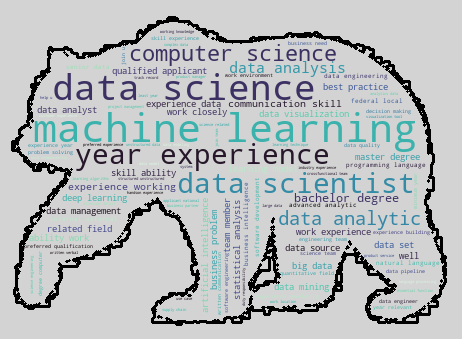
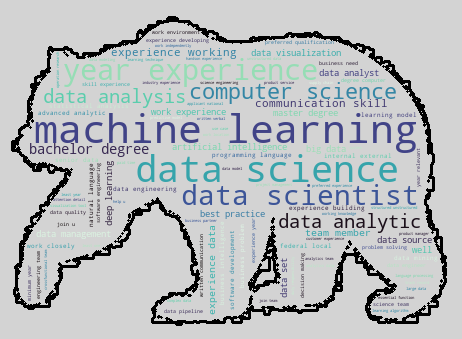
parsed indices 300-400 of the bigrams

Changed region(s): [[0.0606, 0.0885, 0.9697, 0.944]]

diff --git a/nlp_main.py b/nlp_main.py
@@ -483,7 +483,7 @@ def visualize_word_clouds(terms_for_nlp):
 # determine optimal sns chat size
 # think about grouping/stacking compaisons of n_grams based on job type/title
 # consider a function to identify and collapse key terms, like 'scientist' and 'science', 'analytics' and 'analysis', 'algorithm' and 'technique', 'oral' and 'verbal',
-#     'model' and 'modeling', 'strong', 'excellent'
+#     'model' and 'modeling', 'strong', 'excellent', 'writing' and 'written', 'discipline' and 'field'
 # consider a swarm plot for ....something, with job title or skill along the x_axis and some count/value along the y-axis,
   # maybe count of ds skills FOR THE UNICORN INDEX; yes, count the number of skills cited in each job listing, parsed by job title (which
   # has been collapsed and simplified)
@@ -521,6 +521,7 @@ ds_cred_terms = ['ability',
                  'data',
                  'degree',
                  'demonstrated', 
+                 'discipline',
                  'electrical',
                  'engineer',
                  'engineering',
@@ -546,12 +547,14 @@ ds_cred_terms = ['ability',
                  'software',
                  'statistic',
                  'statistics',
+                 'technical',
                  'track', 
                  'work',
                  'working',
                  'year'] # degrees, work and job titles
 
-ds_tech_skill_terms = ['airflow',
+ds_tech_skill_terms = ['ai',
+                       'airflow',
                        'advanced',
                        'algorithm',
                      'analysis',
@@ -559,6 +562,7 @@ ds_tech_skill_terms = ['airflow',
                      'analytics',
                      'analyze',
                      'applied',
+                     'applying',
                      'architecture',
                      'artificial',
                      'big',
@@ -580,14 +584,22 @@ ds_tech_skill_terms = ['airflow',
                      'django',
                      'ecosystem',
                      'edge',
+                     'emerging',
                      'engineer',
                      'engineering',
                      'enterprise',
                      'fastapi',
                      'flask',
+                     'framework',
+                     'generation',
+                     'google',
                      'implement',
+                     'implementation',
                      'information',
+                     'integration',
                      'intelligence',
+                     'java',
+                     'lake',
                      'language',
                      'large',
                      'learning',
@@ -599,6 +611,7 @@ ds_tech_skill_terms = ['airflow',
                      'modeling',
                      'natural',
                      'network',
+                     'next',
                      'neural', 
                      'open', 
                      'pipeline',
@@ -607,11 +620,15 @@ ds_tech_skill_terms = ['airflow',
                      'processing'
                      'programming', 
                      'python',
+                     'pytorch',
                      'relational', 
                      'r',
                      'scale',
                      'science',
+                     'scripting',
                      'series',
+                     'server',
+                     'service',
                      'set',
                      'software',
                      'source',
@@ -624,13 +641,16 @@ ds_tech_skill_terms = ['airflow',
                      'tableau',
                      'technique',
                      'technology',
+                     'tensorflow', 
                      'time', 
                      'tool',
                      'unstructured',
                      'visualization',
-                     'warehouse']
+                     'warehouse',
+                     'web']
 
-ds_soft_skill_terms = ['ability',
+ds_soft_skill_terms = ['ad', 
+                       'ability',
                        'attention', 
                        'audience',
                      'best',
@@ -639,18 +659,24 @@ ds_soft_skill_terms = ['ability',
                      'collaborate',
                      'communicate',
                      'communication',
+                     'continuous', 
                      'critical', 
                      'crossfunctional',
                      'decision', 
                      'detail',
+                     'environment',
                      'excellent',
+                     'experience',
+                     'fastpaced',
+                     'high', 
+                     'hoc', 
+                     'idea',
+                     'impact',
+                     'improvement',
                      'independently',
                      'intelligence',
                      'interpersonal',
-                     'lead',
-                     'leader',
-                     'leading',
-                     'leadership',
+                     'level',
                      'making',
                      'management',
                      'member',
@@ -669,17 +695,22 @@ ds_soft_skill_terms = ['ability',
                      'team',
                      'technical',
                      'thinking',
+                     'user', 
                      'verbal',
+                     'writing',
                      'written',
-                     'work']
+                     'work'
+                     'working']
 
 ds_prof_skill_terms = ['ability',
                        'actionable', 
                        'bi',
                        'business',
+                       'career', 
                        'case',
                        'client',
                        'complex', 
+                       'cross', 
                        'crossfunctional',
                        'customer', 
                        'data',
@@ -689,21 +720,33 @@ ds_prof_skill_terms = ['ability',
                        'demonstrated', 
                        'decision',
                        'development',
+                       'difference',
                        'drive',
                        'driven',
                        'experience',
                        'expert',
                        'expertise',
                        'generate',
+                       'functional',
                        'governance',
+                       'growth',
                        'help',
+                       'identify', 
+                       'impact',
                        'improvement',
                        'innovative',
                        'insight',
+                       'lead',
+                       'leader',
+                       'leading',
+                       'leadership',
+                       'make', 
                        'management',
+                       'managing',
                        'matter',
                        'member',
                        'need',
+                       'opportunity',
                        'partner',
                        'power', 
                        'problem',
@@ -723,12 +766,15 @@ ds_prof_skill_terms = ['ability',
                        'solve',
                        'solving',
                        'stakeholder',
+                       'strategy',
                        'subject',
                        'team',
                        'track',
                        'understanding',
                        'use',
-                       'work']
+                       'value',
+                       'work',
+                       'working']
 
 
 ds_network_skill_terms = []
@@ -736,7 +782,9 @@ ds_network_skill_terms = []
 
 
 stops_permanent_hold = ['internal','external', 'new', 'capital', 'part', 'across', 'multiple', 'plus', 'clinical', 'trial',
-                        'strong', 'high', 'quality', 'additional', 'unit', 'would', 'like', 'wide', 'variety']
+                        'strong', 'high', 'quality', 'additional', 'unit', 'would', 'like', 'wide', 'variety',
+                        'may', 'include', 'core', 'like', 'qualification', 'fair', 'chance', 'include', 'limited',
+                        'per', 'small', 'least', 'key']
 
 
 stops_other_hr_hold = ['senior', 'closely', 'federal', 'state', 'local', 'laws', 'preferred', 'qualification',
@@ -747,12 +795,15 @@ stops_other_hr_hold = ['senior', 'closely', 'federal', 'state', 'local', 'laws',
                        'must', 'able', 'following', 'consider', 'qualified', 'request', 'accommodation',
                        'diverse', 'inclusive', 'basic', 'paid', 'time', 'parental', 'leave', 'application', 'process',
                        'full', 'time', 'committed', 'providing', 'remote', 'required', 'basis', 'national',
-                       'health', 'safety', 'place', 'competitive', 'salary', 'perform', 'essential', 'key', 'responsibility',
-                       'creed', 'national']
+                       'health', 'safety', 'place', 'competitive', 'salary', 'range', 'perform', 'essential', 'key', 'responsibility',
+                       'creed', 'national', 'ancestry', 'federal', 'contractor', 'preferred', 'worklife', 'balance',
+                       'contact', 'accommodation', 'request', 'able', 'responsible', 'travel', 'requirement',
+                       'offer', 'competitive', 'pay', 'transparency', 'committed', 'creating', 'start', 'date',
+                       'learn', 'background', 'check', 'duty', 'assigned', 'public', 'health', 'retirement', 'plan']
 
 consideration = ['building', 'environment'] # financial, service | experience, building | work, environment | supply, chain | essential, function
 
-c19 = ['proof', 'vaccination']
+c19 = ['proof', 'vaccination', 'executive', 'order']
 
 ds_task_terms = ['processing', 'model']
 python_library_terms = ['numpy', 'pandas']
@@ -771,7 +822,7 @@ visualize_indeed_data(df)
 
 # execute nlp
 n_gram_count = 2
-n_gram_range_start, n_gram_range_stop  = 200, 300
+n_gram_range_start, n_gram_range_stop  = 300, 400
 n_grams = count_n_grams(terms_for_nlp, n_gram_count, n_gram_range_start, n_gram_range_stop)
 
 visualize_word_clouds(terms_for_nlp)
